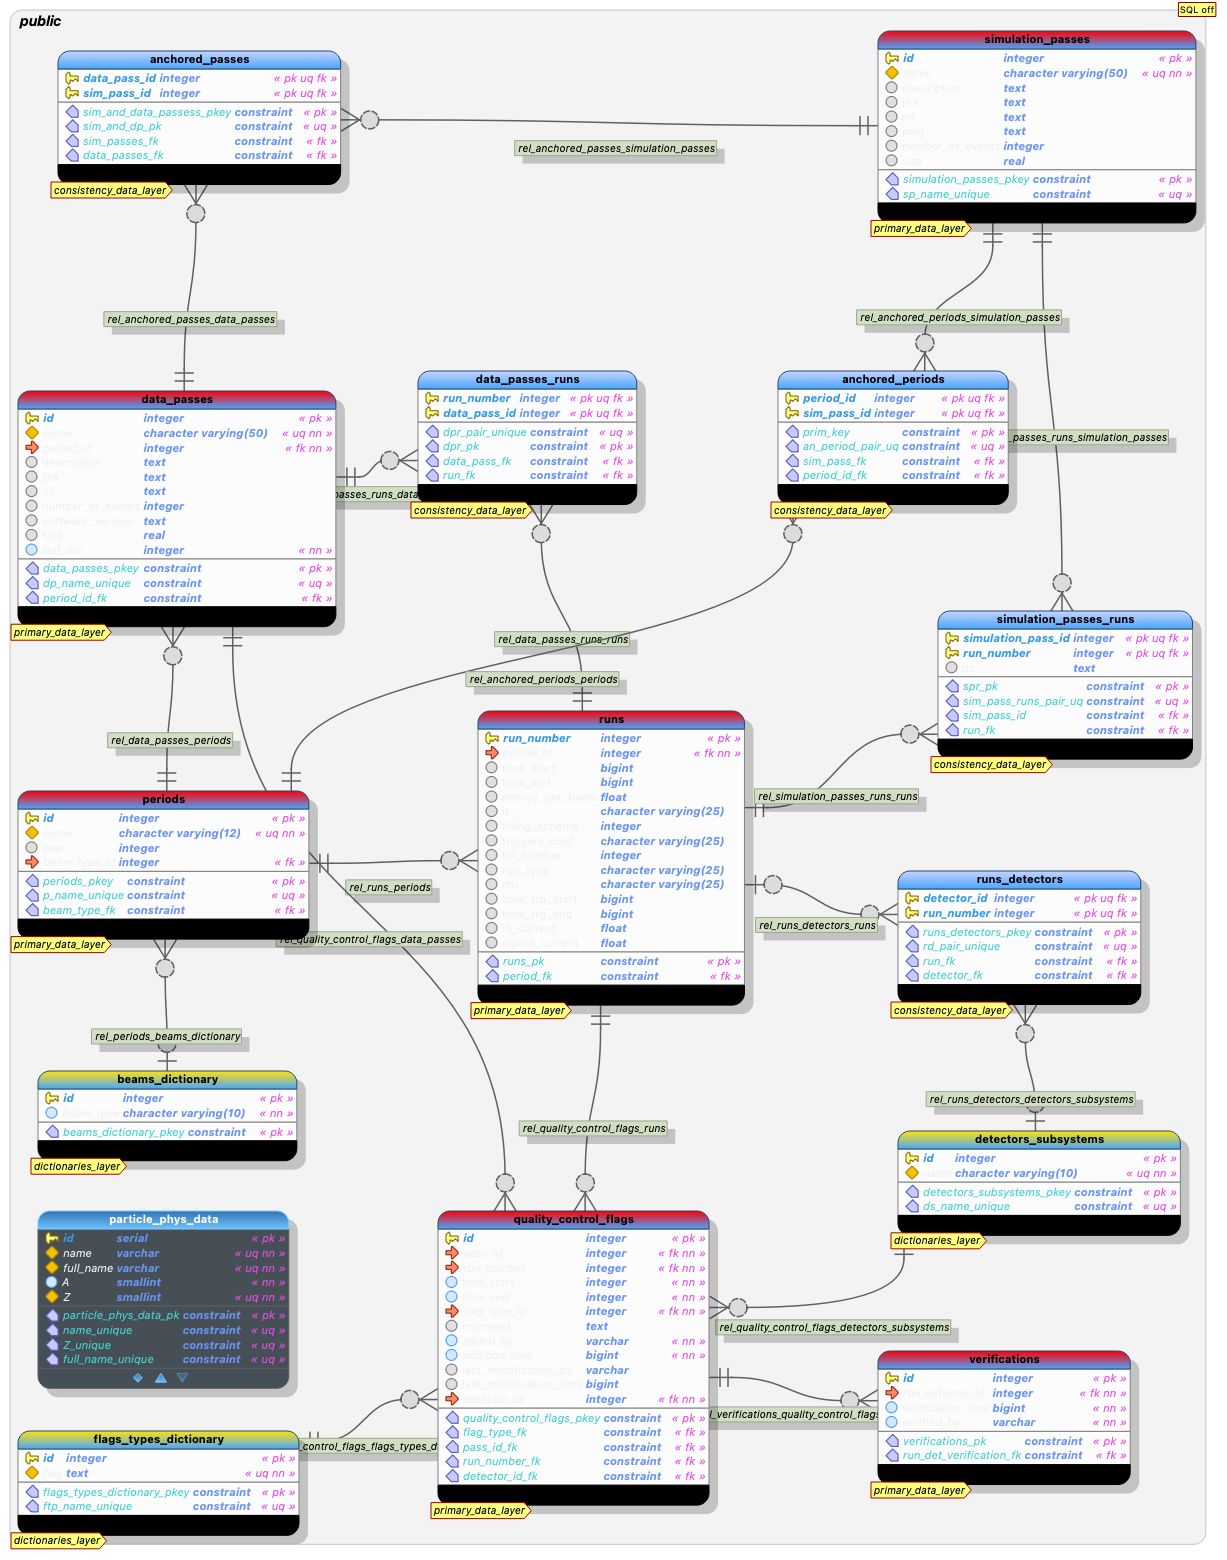
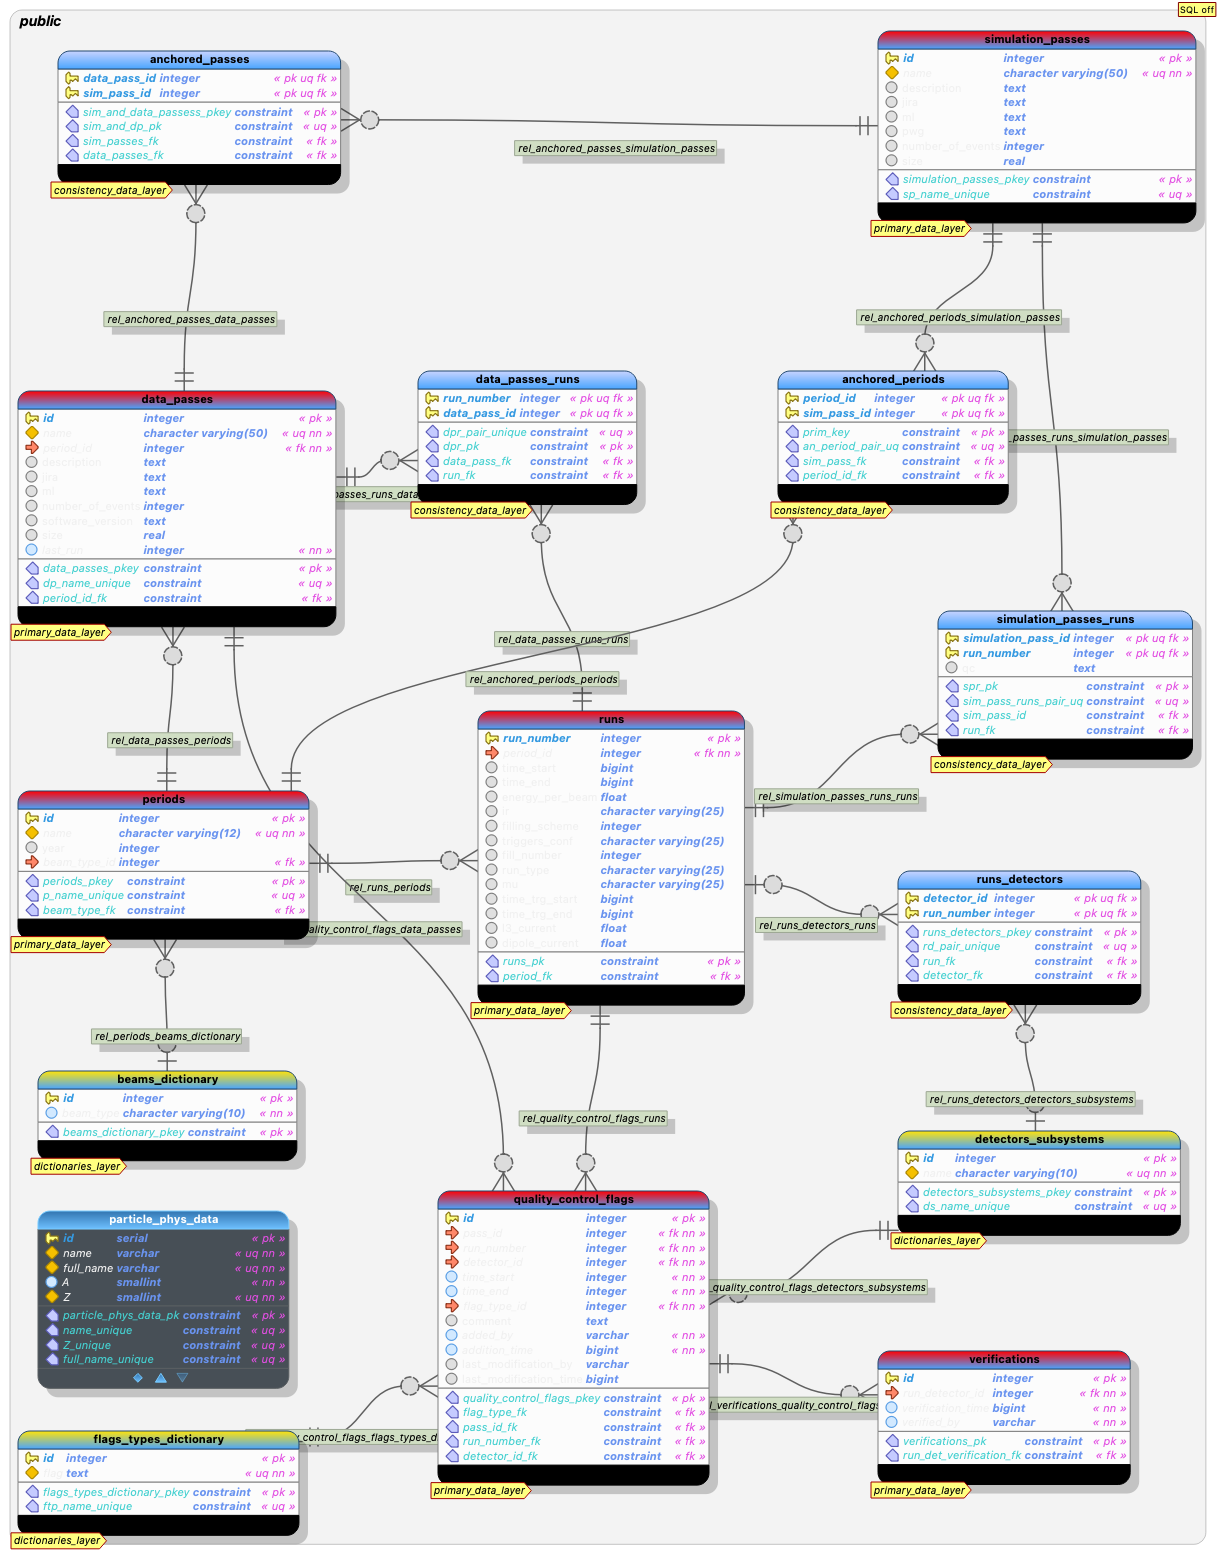
name in qcf changed

diff --git a/app/lib/database/views/flags_view.js b/app/lib/database/views/flags_view.js
@@ -23,16 +23,18 @@ const flags_view = (query) => `
             ds.name
 
         FROM quality_control_flags AS qcf
-        INNER JOIN data_passes_runs as dpr
-            ON dpr.id = qcf.pass_run_id
-        INNER JOIN runs_detectors as rd
-            ON qcf.run_detector_id = rd.id
+        INNER JOIN data_passes as dp
+            ON dp.id = qcf.data_pass_id
+        INNER JOIN runs as r
+            ON qcf.run_number = r.run_number
         INNER JOIN detectors_subsystems AS ds
             ON ds.id = rd.detector_id
         INNER JOIN flags_types_dictionary as ftd
             ON ftd.id = qcf.flag_type_id
         
-        WHERE rd.run_id = ${query.index}
+        WHERE rd.run_number = ${query.run_number} AND 
+            dp.id = ${query.data_pass} AND 
+            ds.name = ${query.detector}
         
     `;
 
